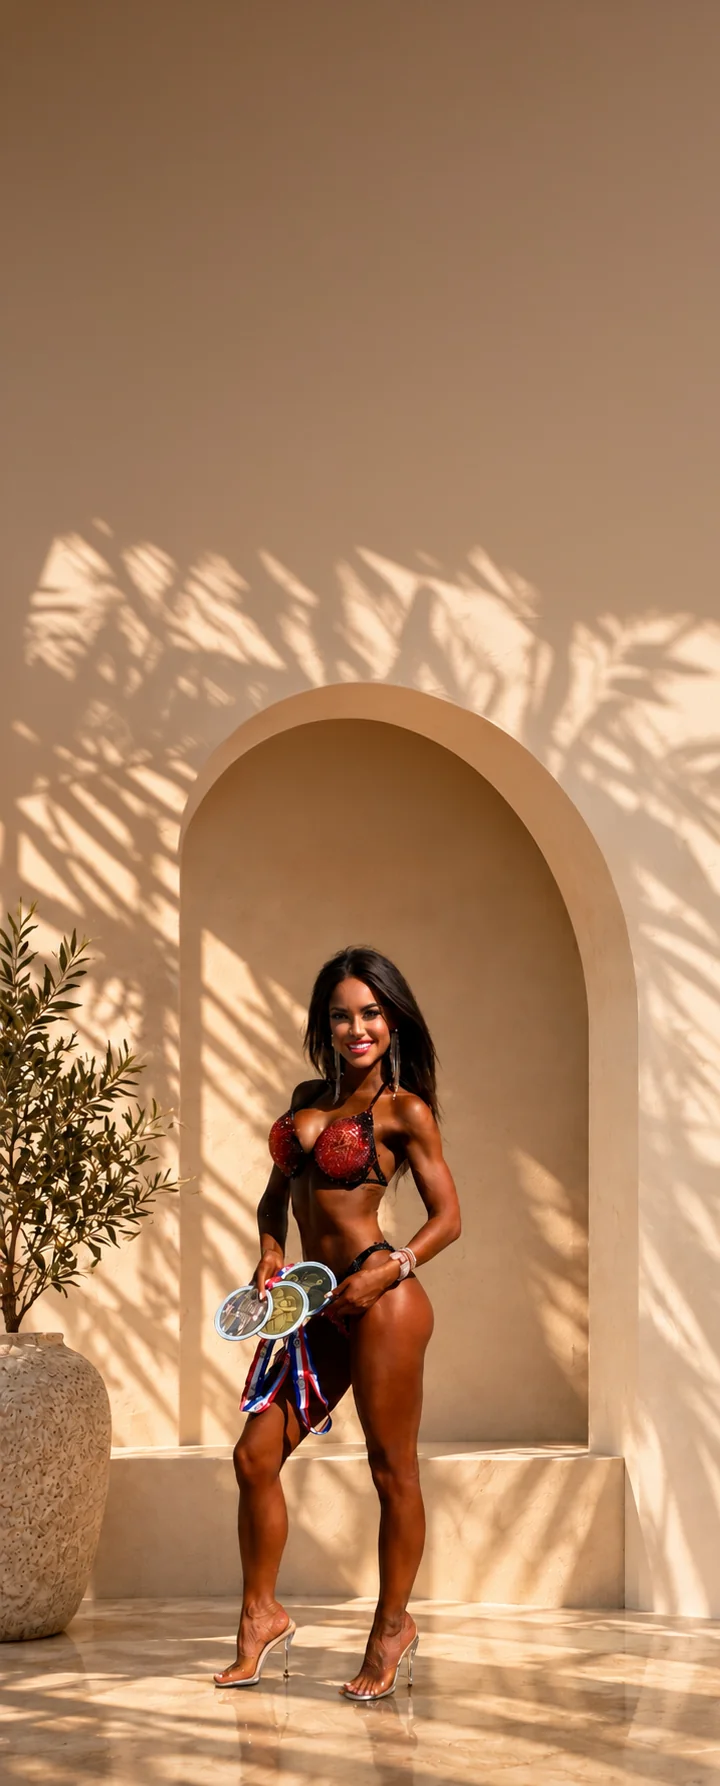
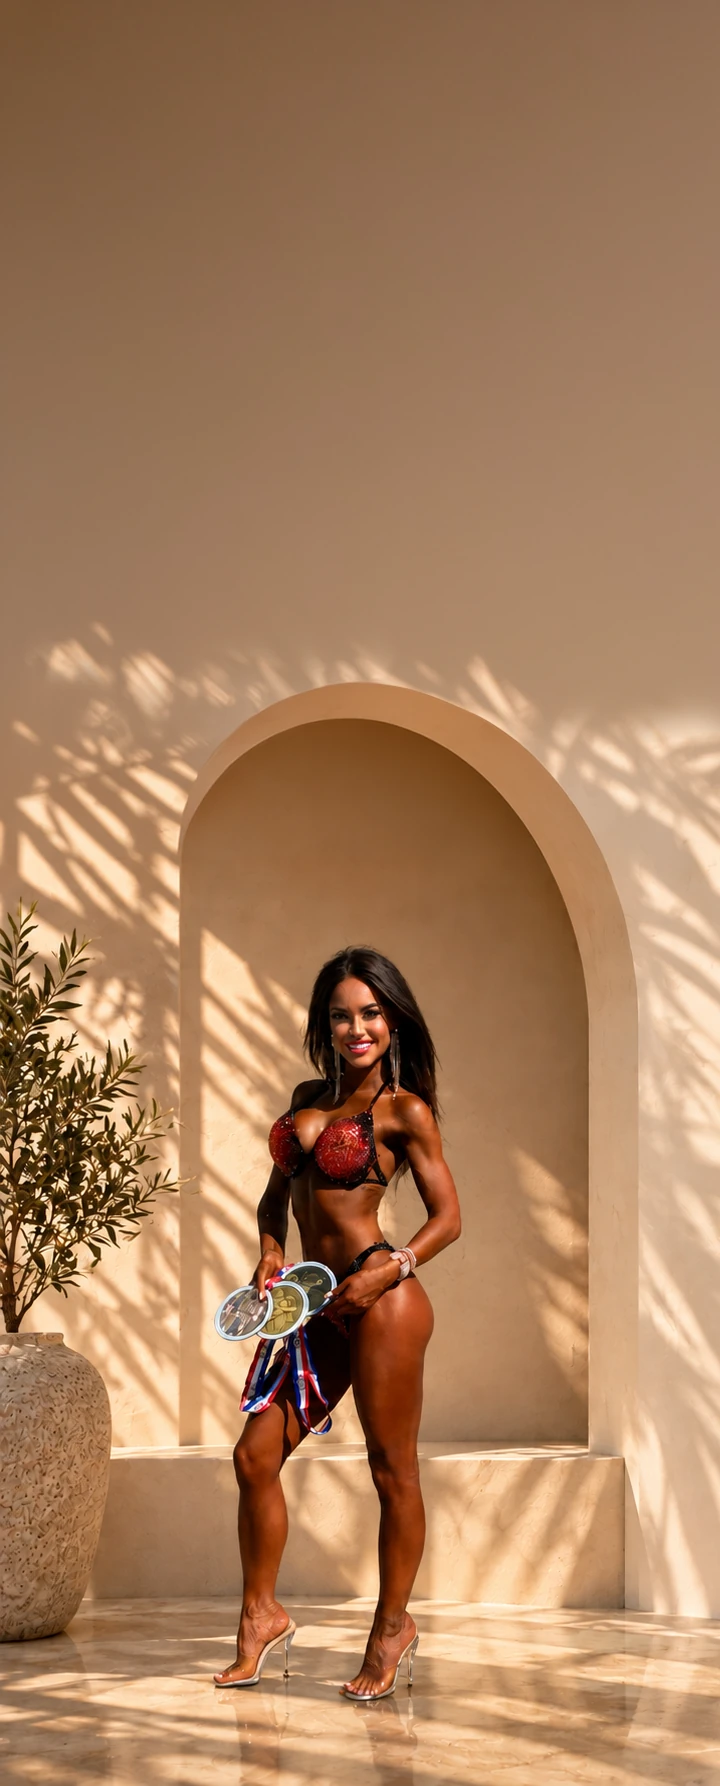
Coach section: new mobile background with reduced shadow; lighter credentials plaque
- Replace coach-mobile.webp with the client's updated photo (softer
  shadow for better text readability).
- Reduce the dark credentials plaque's opacity by 25% on mobile.

Changed region(s): [[0.0306, 0.2772, 1.0, 0.4311]]

diff --git a/style.css b/style.css
@@ -610,8 +610,8 @@ body:has(#mobileMenuOverlay.visible) .topbar .topbar-link{ color:var(--ink-soft)
     gap:0;
     margin:0;
     padding:14px 10px;
-    background:rgba(58,38,26,0.48);
-    border:1px solid rgba(58,38,26,0.62);
+    background:rgba(58,38,26,0.36);
+    border:1px solid rgba(58,38,26,0.465);
     border-radius:18px;
   }
   .section-coach .coach-credential{
